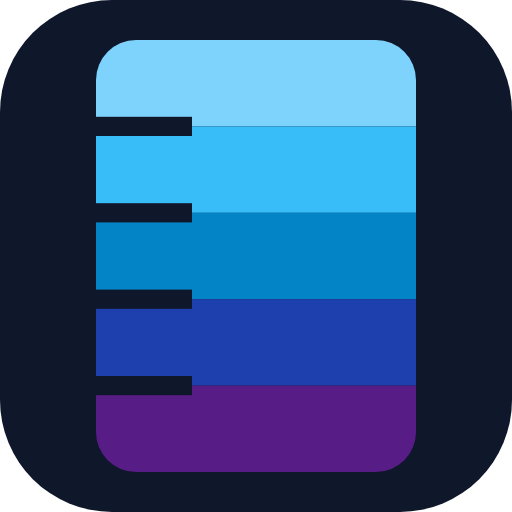
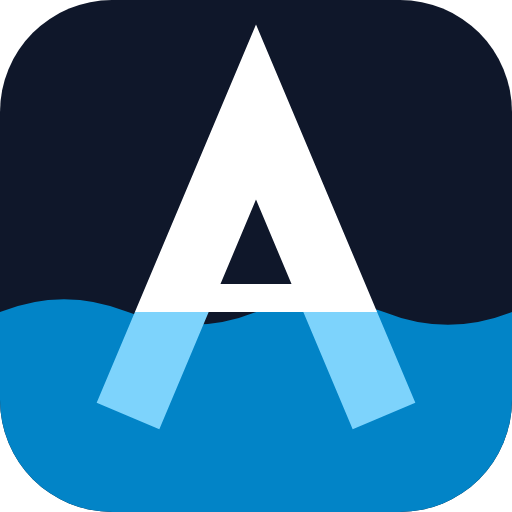
feat: the mark is an A flooded to its crossbar, and the water has waves
The old mark was five depth bands in a rounded square. It was faithful to
the legend and useless as a logo, and Elijah was right to call it basic: a
rounded rectangle has no silhouette, and the graduations meant to carry the
gauge idea stopped resolving below about 24px - which is exactly where an
icon lives. What reached the user was stripes in a box. Being semantically
justified is not the same as being recognisable.

The A already carries a horizontal bar, so the bar now doubles as the
waterline. One shape names the app and states the subject, and that
coincidence is what makes it stick. Below the line the letter takes a pale
depth blue, above it white on ink; flat fills only, per §8.

The wordmark repeats the same waterline through "Antas" with clip-path over
live text, so it stays selectable and resizable rather than becoming a
picture of a word. Checked at 3x, where a half-tinted word would go muddy.

The splash surface was a ruled line, which reads as a progress bar - the one
thing a rising flood must not look like. It is now two waves drifting at
opposed speeds, sharing the water's colour and blend mode so their crossings
multiply into depth without a gradient. The loop shifts exactly two of the
path's periods, so it has no seam. The drift stops under reduced motion; the
wave shape stays, because shape is not motion.

diff --git a/src/components/AntasMark.tsx b/src/components/AntasMark.tsx
@@ -1,43 +1,44 @@
-import { DEPTH_LEVELS } from "@/lib/depth/scale";
 import { DEPTH_HEX } from "@/lib/depth/presentation";
 
 /**
- * The mark: a staff gauge.
+ * The mark: the letter A, flooded to its crossbar.
  *
- * A staff gauge is the graduated post planted in a river to read its level by
- * eye - the physical instrument this app replaces with a crowd. So the mark is
- * that object, rather than the droplet or wave every other flood app reaches
- * for, neither of which can say *how deep*.
+ * The A already has a horizontal bar across it, so the bar is made to do double
+ * duty as the waterline. That is the whole idea, and it is why this works where
+ * the previous mark did not: it names the app and states the subject in one
+ * shape, and the coincidence is the thing anyone remembers.
  *
- * The five bands are the depth scale itself, in scale order, pale at the top
- * and deepest at the foot. The icon on a home screen and the key on the map are
- * then the same object, and nothing new has to be learned to read it.
+ * What it replaces was five colour bands in a rounded square. That was faithful
+ * to the legend and useless as a logo - a rounded rectangle has no silhouette,
+ * the graduations stopped resolving below about 24px, and what reached the user
+ * at icon size was stripes in a box.
  *
- * The post sits on an ink ground rather than bleeding to the edge. The first
- * version was full-bleed, and its palest band vanished into a white browser
- * tab - the icon read as though the top had been cropped off. The ground also
- * makes it an object standing in something, which is what a gauge is.
+ * Flat fills only, per `foundations.md` §8: no gradients anywhere in this
+ * product. The submerged half of the letter takes a pale depth blue rather than
+ * white, which is what reads as "under water" without shading or transparency.
  */
-
-/** Shallowest first, so the bands paint top-down in scale order. */
-const BANDS = [...DEPTH_LEVELS];
 
 const SIZE = 64;
 const GROUND = "#0f172a";
+const WATER = DEPTH_HEX.waist;
+const SUBMERGED = DEPTH_HEX.ankle;
 
-/** The post, inset from the ground. Deliberately broad: at favicon sizes a
- *  slender post collapses to a hairline and the colour signature goes with it. */
-const POST_X = 12;
-const POST_W = 40;
-const POST_Y = 5;
-const POST_H = 54;
-const BAND_H = POST_H / BANDS.length;
+/** Where the crossbar sits, and therefore where the water sits. */
+const WATERLINE = 39;
 
-/** Graduations, cut into the left edge of the post in the ground colour. Below
- *  roughly 24px they stop resolving and read as texture, which is the point:
- *  the silhouette still says "measuring post" without needing to be counted. */
-const TICK_W = 12;
-const TICK_H = 2.4;
+/** The letter, as strokes rather than an outline: a font cannot be relied on
+ *  inside an SVG that ships as a favicon. Butt caps keep the feet flat. */
+const LETTER = `M16 52 L32 14 L48 52`;
+const CROSSBAR = `M21.5 ${WATERLINE} L42.5 ${WATERLINE}`;
+
+/**
+ * The water's surface, waved rather than ruled. A straight edge reads as a
+ * progress bar; this has to read as water. Amplitude is deliberately shallow -
+ * at 16px it flattens to a line anyway, and anything deeper turns the crossbar
+ * into a scribble at the sizes where it still resolves.
+ */
+const SURFACE =
+  `M0 ${WATERLINE} q8 -3.2 16 0 t16 0 t16 0 t16 0 L64 64 L0 64 Z`;
 
 interface AntasMarkProps {
   /** Rendered size in px. The viewBox is fixed, so this only scales. */
@@ -58,39 +59,43 @@ export function AntasMark({ size = 24, title }: AntasMarkProps) {
       aria-label={title}
       focusable="false"
     >
-      <rect width={SIZE} height={SIZE} rx={14} ry={14} fill={GROUND} />
-
-      {/* Clipping rather than a rounded <rect> per band: the corner radius then
-          belongs to the post, not to the top and bottom colours, so the scale
-          reads as one continuous object. */}
-      <clipPath id="antas-mark-post">
-        <rect x={POST_X} y={POST_Y} width={POST_W} height={POST_H} rx={5} ry={5} />
+      <clipPath id="antas-mark-ground">
+        <rect width={SIZE} height={SIZE} rx={14} ry={14} />
       </clipPath>
 
-      <g clipPath="url(#antas-mark-post)">
-        {BANDS.map((level, i) => (
-          <rect
-            key={level}
-            x={POST_X}
-            y={POST_Y + i * BAND_H}
-            width={POST_W}
-            height={BAND_H}
-            fill={DEPTH_HEX[level]}
-          />
-        ))}
+      {/* Above and below the waterline, so the letter can be drawn twice in two
+          colours rather than faded - flat fills only. */}
+      <clipPath id="antas-mark-above">
+        <rect width={SIZE} height={WATERLINE} />
+      </clipPath>
+      <clipPath id="antas-mark-below">
+        <rect y={WATERLINE} width={SIZE} height={SIZE - WATERLINE} />
+      </clipPath>
 
-        {/* One graduation per boundary between levels - four, not five. A tick
-            at the foot of the post would mark a depth with no band below it. */}
-        {BANDS.slice(1).map((level, i) => (
-          <rect
-            key={`tick-${level}`}
-            x={POST_X}
-            y={POST_Y + (i + 1) * BAND_H - TICK_H / 2}
-            width={TICK_W}
-            height={TICK_H}
-            fill={GROUND}
-          />
-        ))}
+      <g clipPath="url(#antas-mark-ground)">
+        <rect width={SIZE} height={SIZE} fill={GROUND} />
+        <path d={SURFACE} fill={WATER} />
+
+        <g
+          fill="none"
+          strokeWidth={8.5}
+          strokeLinecap="butt"
+          strokeLinejoin="miter"
+          clipPath="url(#antas-mark-above)"
+        >
+          <path d={LETTER} stroke="#ffffff" />
+          <path d={CROSSBAR} stroke="#ffffff" strokeWidth={7} />
+        </g>
+
+        <g
+          fill="none"
+          strokeWidth={8.5}
+          strokeLinecap="butt"
+          strokeLinejoin="miter"
+          clipPath="url(#antas-mark-below)"
+        >
+          <path d={LETTER} stroke={SUBMERGED} />
+        </g>
       </g>
     </svg>
   );

diff --git a/src/app/globals.css b/src/app/globals.css
@@ -142,10 +142,27 @@ h3 {
   letter-spacing: -0.02em;
 }
 
-/* The mark keeps its own colours in every theme - it is the depth scale, and a
-   depth scale that restyles itself at night is not a scale. */
+/* The mark keeps its own colours in every theme - it states the subject, and a
+   logo that restyles itself at night is not a logo. */
 .wordmark svg {
   flex: none;
+}
+
+.wordmark-word {
+  position: relative;
+  display: inline-block;
+}
+
+/* The submerged half of the word. Clipped rather than faded, and cut at the
+   same height the mark's crossbar sits at, so the header reads as one waterline
+   running through both. Bleeds past the bottom so descenders are not sheared. */
+.wordmark-flood {
+  position: absolute;
+  left: 0;
+  top: 0;
+  color: var(--depth-waist);
+  clip-path: inset(52% 0 -20% 0);
+  pointer-events: none;
 }
 
 .site-nav {
@@ -1451,25 +1468,54 @@ a.btn {
     background-color 450ms linear;
 }
 
-/* A surface, so the water has a top rather than simply ending. Deliberately
-   outside `.splash-water`: multiply by white is the identity, so a highlight
-   placed inside the blended layer can never show. */
-.splash-crest {
+/* The surface. Sits on the water's top edge and rises with it - a ruled line
+   read as a progress bar, which is the one thing a flood must not look like.
+   Twice the container width so the drift has somewhere to travel. */
+.splash-wave {
   position: absolute;
   left: 0;
-  right: 0;
-  height: 2px;
-  background: rgba(255, 255, 255, 0.65);
-  box-shadow: 0 1px 6px rgba(15, 23, 42, 0.18);
+  width: 200%;
+  height: 26px;
+  /* Overlap by a pixel: at fractional device ratios an exact meeting leaves a
+     hairline of background between the surface and the body of water. */
+  margin-bottom: -1px;
+  mix-blend-mode: multiply;
+  pointer-events: none;
   transition: bottom var(--rise-ms, 300ms) cubic-bezier(0.33, 0.1, 0.25, 1);
 }
 
+/* -100 user units is exactly two of the path's 50-unit periods, so the loop
+   has no seam. Two speeds, opposed, so the crests never march in step. */
+@keyframes splash-drift {
+  from {
+    transform: translateX(0);
+  }
+  to {
+    transform: translateX(-100px);
+  }
+}
+
+.splash-wave-back {
+  opacity: 0.55;
+  animation: splash-drift 3.6s linear infinite;
+}
+
+.splash-wave-front {
+  animation: splash-drift 2.2s linear infinite reverse;
+}
+
 /* Reduced motion keeps the covering - it is load state, not decoration - and
-   drops only the travel, so the level steps rather than climbs. */
+   drops only the travel: the level steps rather than climbs, and the surface
+   holds still. The waves stay, because their shape is not motion. */
 @media (prefers-reduced-motion: reduce) {
   .splash-water,
-  .splash-crest {
+  .splash-wave {
     transition: background-color 200ms linear;
+  }
+
+  .splash-wave-back,
+  .splash-wave-front {
+    animation: none;
   }
 }
 

diff --git a/src/components/SplashScreen.tsx b/src/components/SplashScreen.tsx
@@ -54,6 +54,18 @@ const SURGE_MS = 420;
 const FADE_MS = 320;
 
 /**
+ * The surface, as two drifting waves rather than a ruled edge.
+ *
+ * A straight line reads as a progress bar, which is the one thing this must not
+ * look like. Both paths span 200 units and repeat every 50, so a -100 unit
+ * drift lands exactly two periods along and loops without a seam.
+ */
+const WAVE_BACK =
+  "M0 13 q12.5 -9 25 0 t25 0 t25 0 t25 0 t25 0 t25 0 t25 0 t25 0 L200 24 L0 24 Z";
+const WAVE_FRONT =
+  "M0 17 q12.5 -7 25 0 t25 0 t25 0 t25 0 t25 0 t25 0 t25 0 t25 0 L200 24 L0 24 Z";
+
+/**
  * The splash must be in the server-rendered HTML, or the map paints for a frame
  * before it is covered. That means the "have we already shown this?" check has
  * to run after hydration but before paint, which is `useLayoutEffect` - and
@@ -172,13 +184,20 @@ export function SplashScreen({ ready }: SplashScreenProps) {
         }}
       />
 
-      {/* A sibling of the water, not a child. Inside it the crest was invisible:
-          `multiply` by white is the identity, so a white highlight cannot
-          survive the blend. Out here it tracks the surface on the same timing. */}
-      <span
-        className="splash-crest"
+      {/* The surface rides on top of the water body and tracks it on the same
+          timing. Same colour and same blend mode, so where the two waves cross
+          each other the multiply darkens and the water gains depth for free. */}
+      <svg
+        className="splash-wave"
         style={{ bottom: `${level}%`, ["--rise-ms" as string]: riseMs }}
-      />
+        viewBox="0 0 200 24"
+        preserveAspectRatio="none"
+        aria-hidden="true"
+        focusable="false"
+      >
+        <path className="splash-wave-back" d={WAVE_BACK} fill={colour} />
+        <path className="splash-wave-front" d={WAVE_FRONT} fill={colour} />
+      </svg>
     </div>
   );
 }

diff --git a/src/app/layout.tsx b/src/app/layout.tsx
@@ -43,8 +43,17 @@ export default function RootLayout({ children }: LayoutProps<"/">) {
       <body>
         <header className="site-header">
           <Link href="/" className="wordmark">
-            <AntasMark size={22} />
-            Antas
+            <AntasMark size={24} />
+            {/* The word carries the same waterline as the mark. The duplicate is
+                the real text clipped to below the line and recoloured, so the
+                letterforms stay live text - selectable, resizable, and readable
+                by assistive tech, which an image of a word would not be. */}
+            <span className="wordmark-word">
+              Antas
+              <span className="wordmark-flood" aria-hidden="true">
+                Antas
+              </span>
+            </span>
           </Link>
           <nav className="site-nav">
             <Link href="/report" className="nav-link">

diff --git a/docs/design/foundations.md b/docs/design/foundations.md
@@ -267,17 +267,23 @@ and typhoon flooding does not stop at 6pm. So:
 
 ## 7b. The mark, and the splash
 
-The mark is a **staff gauge** — the graduated post planted in a river to read its level by
-eye, which is the instrument this app replaces with a crowd. Five bands, in scale order, pale
-at the top and deepest at the foot. The home-screen icon and the map key are therefore the
-same object, and nothing new has to be learned to read it. Not a droplet and not a wave:
-neither can say *how deep*, which is the only question this product answers.
+The mark is the letter **A, flooded to its crossbar**. The A already carries a horizontal
+bar, so the bar is made to do double duty as the waterline — the shape names the app and
+states the subject at once, and that coincidence is what makes it stick. Below the line the
+letter takes a pale depth blue; above it, white on ink. Flat fills only, so the submersion is
+carried by colour rather than by shading or transparency.
 
-It sits on an ink ground rather than bleeding to the edge. Full-bleed, the palest band
-dissolved into a white browser tab and the icon read as though its top had been cropped.
+The wordmark repeats the same waterline through the word "Antas", cut with `clip-path` over
+live text rather than baked into an image, so it stays selectable and resizable. The gloss
+"antas ng tubig" that used to sit beside it is gone.
 
-The wordmark is the mark plus "Antas". The gloss "antas ng tubig" that used to sit beside it
-is gone.
+**A rejected first attempt is worth recording**, because the reasoning was seductive and
+wrong. The mark began as a staff gauge — the graduated post used to read a river by eye —
+drawn as the five depth bands in a rounded square, so that the app icon and the map key would
+be the same object. It was faithful to the system and useless as a logo: a rounded rectangle
+has no silhouette, and the graduations that were supposed to carry the idea stopped resolving
+below about 24px, which is exactly where an icon lives. What reached the user was stripes in a
+box. Semantic justification is not the same as being recognisable.
 
 **The splash is the one animation allowed past §8**, and only on these terms:
 
@@ -291,6 +297,10 @@ is gone.
   before the map is reached and the rise reads as increasing danger
 - It **submerges** the mark rather than floating it. A logo bobbing to safety reads as
   reassurance; this is a warning tool
+- The surface is two drifting waves, not a ruled line. A straight edge reads as a progress
+  bar, which is the one thing a rising flood must not look like. The waves share the water's
+  colour and blend mode, so where they cross each other the multiply darkens and the water
+  gains depth without a gradient
 
 ## 8. What this deliberately avoids
 

diff --git a/docs/STATUS.md b/docs/STATUS.md
@@ -95,12 +95,18 @@ it stamped `data-map-theme="light"` for a frame before consulting the clock —
 the white flash in a dark room the basemap already avoided. Both states are now
 seeded from the clock.
 
-**A real logo, and a loading screen.** The mark is a staff gauge — the graduated
-post used to read a river by eye — drawn as SVG rather than generated, so it is
-exact at every size. It replaces a pixel-art "A" placeholder. The favicon comes
-from `src/app/icon.svg` via the App Router convention; `public/icon-192.png` and
-`icon-512.png` are rasterised from it. The "antas ng tubig" gloss is gone from
-the header.
+**A real logo, and a loading screen.** The mark is the letter A flooded to its
+crossbar — the A's own bar doubles as the waterline, so one shape names the app
+and states the subject. The wordmark repeats that waterline through "Antas"
+using `clip-path` over live text. Drawn as SVG rather than generated, so it is
+exact at every size. The favicon comes from `src/app/icon.svg` via the App
+Router convention; `public/icon-192.png` and `icon-512.png` are rasterised from
+it. The "antas ng tubig" gloss is gone from the header.
+
+The first attempt was a staff gauge — five depth bands in a rounded square. It
+tied neatly to the legend and failed as a logo: no silhouette, and the
+graduations vanished below ~24px, so the icon was stripes in a box. Recorded in
+`foundations.md` §7b, because the reasoning was seductive and wrong.
 
 The splash rises water over the mark while the map loads, stepping through the
 five depth colours in scale order. It is bound to real readiness — basemap
